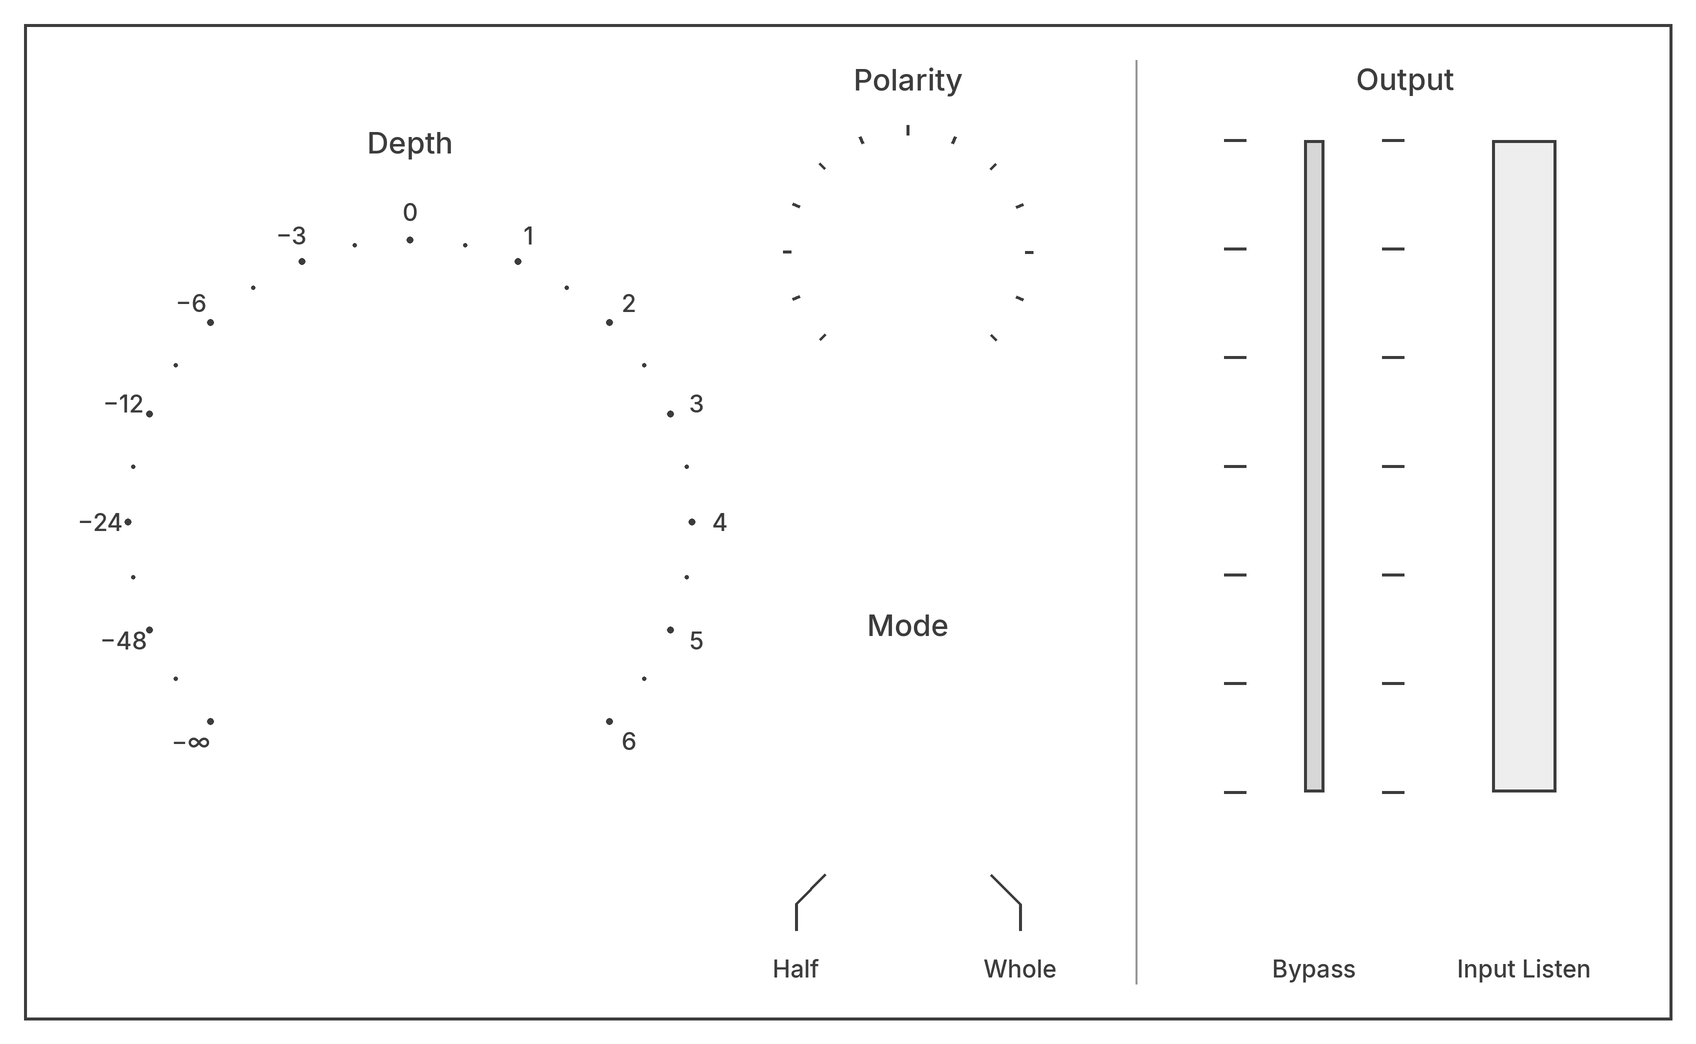
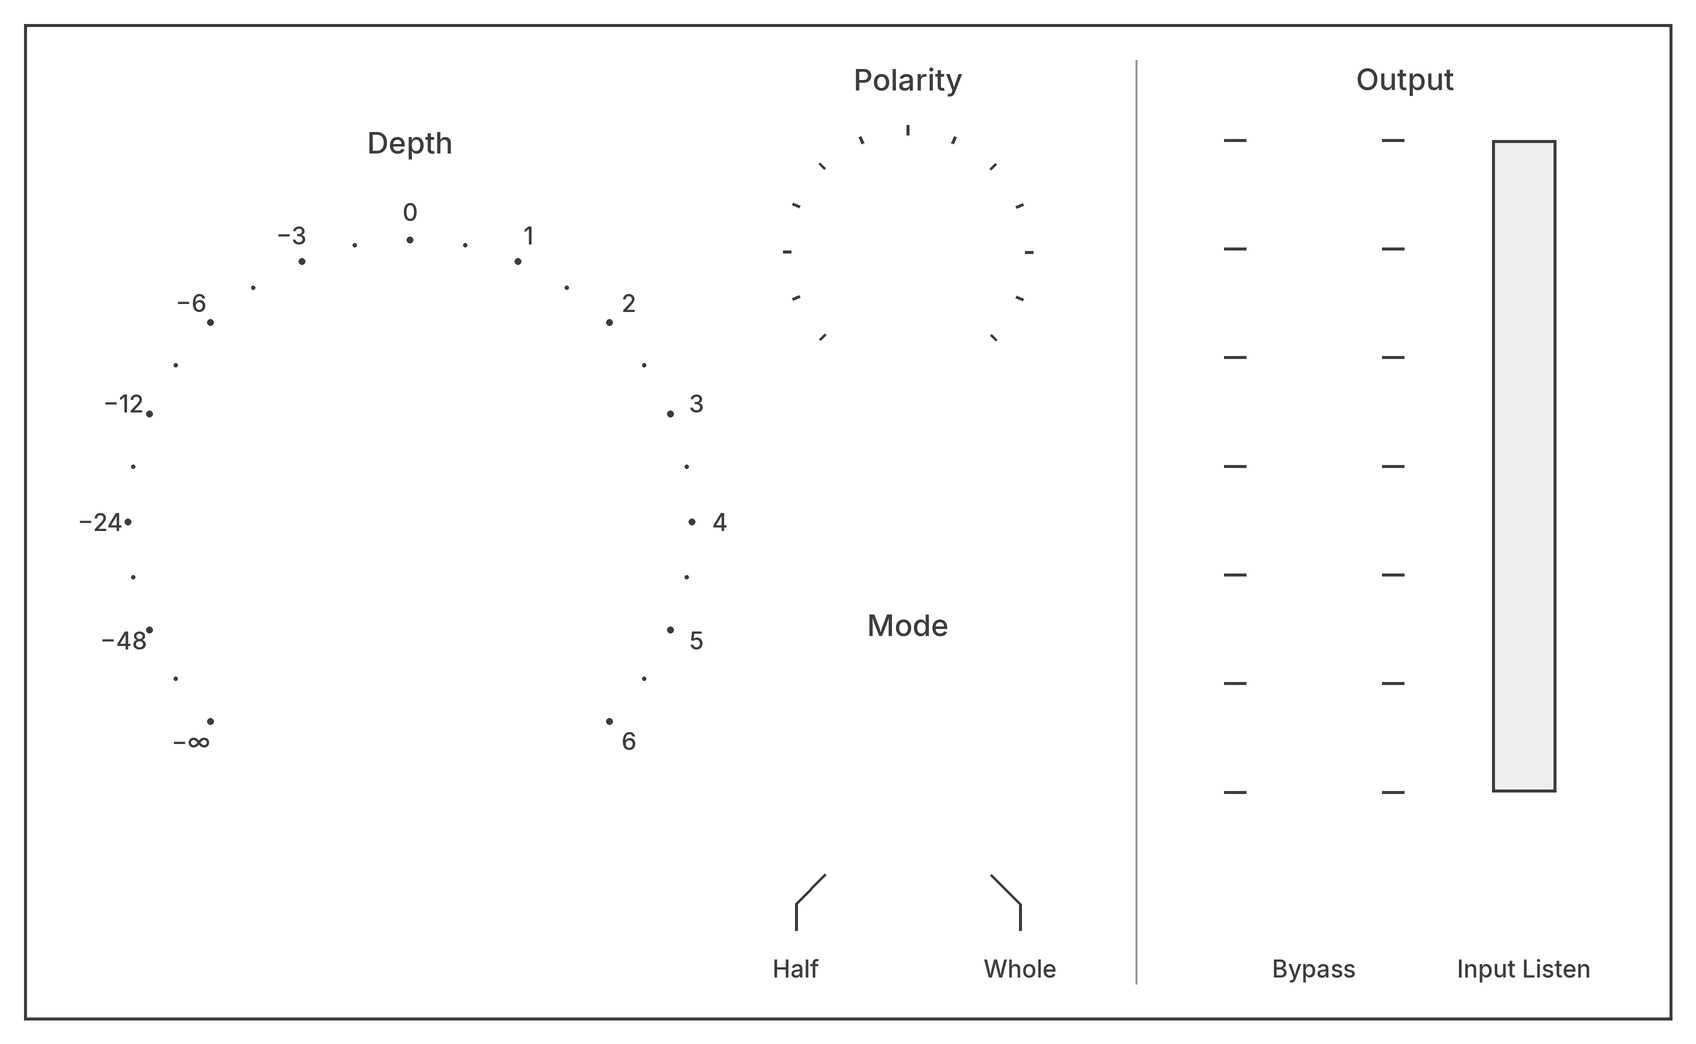
Fader de Output redibujado (recorrido negro y perilla con franjas) [skip ci]
Claude-Session: https://claude.ai/code/session_01LmYTuHAKQSU8qhR6nNkVAi

Changed region(s): [[0.75, 0.1226, 0.7812, 0.7663]]

diff --git a/Source/PluginEditor.cpp b/Source/PluginEditor.cpp
@@ -183,16 +183,19 @@ namespace
 
     struct Fader : Ctl
     {
-        Fader (RangedAudioParameter& p, Typeface::Ptr tf_) : Ctl (p), tf (tf_) { setDesign ({ 1254, 122, 120, 756 }); }
-        bool hitTest (int x, int y) override { const auto p = designOf (x, y); return p.y <= (float) kBottom + 18.0f; }
+        Fader (RangedAudioParameter& p, Typeface::Ptr tf_)
+            : Ctl (p), tf (tf_),
+              slot (img (BinaryData::ui_fader_slot_png, BinaryData::ui_fader_slot_pngSize)),
+              capImg (img (BinaryData::ui_fader_cap_png, BinaryData::ui_fader_cap_pngSize))
+        { setDesign ({ 1254, 122, 120, 756 }); }
+        bool hitTest (int x, int y) override { const auto p = designOf (x, y); return p.y <= (float) kBottom + 24.0f; }
         float yOf (float n) const { return (float) kBottom - n * (float) (kBottom - kTop); }
         void paint (Graphics& g) override
         {
             beginDesign (g);
-            const float cy = yOf (norm());
-            const Rectangle<float> t ((float) kFaderX - 60.0f, cy - 18.0f, 120.0f, 36.0f);
-            g.setColour (Colours::white); g.fillRect (t);
-            g.setColour (kInk);           g.drawRect (t, 3.0f);
+            const int cy = roundToInt (yOf (norm()));
+            g.drawImageAt (slot, kFaderX - slot.getWidth() / 2, kTop - 10);            // recorrido
+            g.drawImageAt (capImg, kFaderX - capImg.getWidth() / 2, cy - capImg.getHeight() / 2);   // perilla
             g.setFont (Font (FontOptions (tf).withPointHeight (24.0f)));
             g.drawSingleLineText (dbText (value()), kFaderX, 833, Justification::horizontallyCentred);
         }
@@ -202,7 +205,7 @@ namespace
             if (altReset (e)) return;
             att.beginGesture();
             const float y = toDesign (e.position).y, c = yOf (norm());
-            offset = std::abs (y - c) <= 18.0f ? y - c : 0.0f;
+            offset = std::abs (y - c) <= 24.0f ? y - c : 0.0f;
             setFromY (y);
         }
         void mouseDrag (const MouseEvent& e) override { if (! resetting) setFromY (toDesign (e.position).y); }
@@ -212,7 +215,7 @@ namespace
         {
             att.beginGesture(); setNorm (norm() + w.deltaY * 0.08f); att.endGesture();
         }
-        Typeface::Ptr tf; float offset = 0.0f;
+        Typeface::Ptr tf; Image slot, capImg; float offset = 0.0f;
     };
 
     struct ToggleBtn : Ctl
